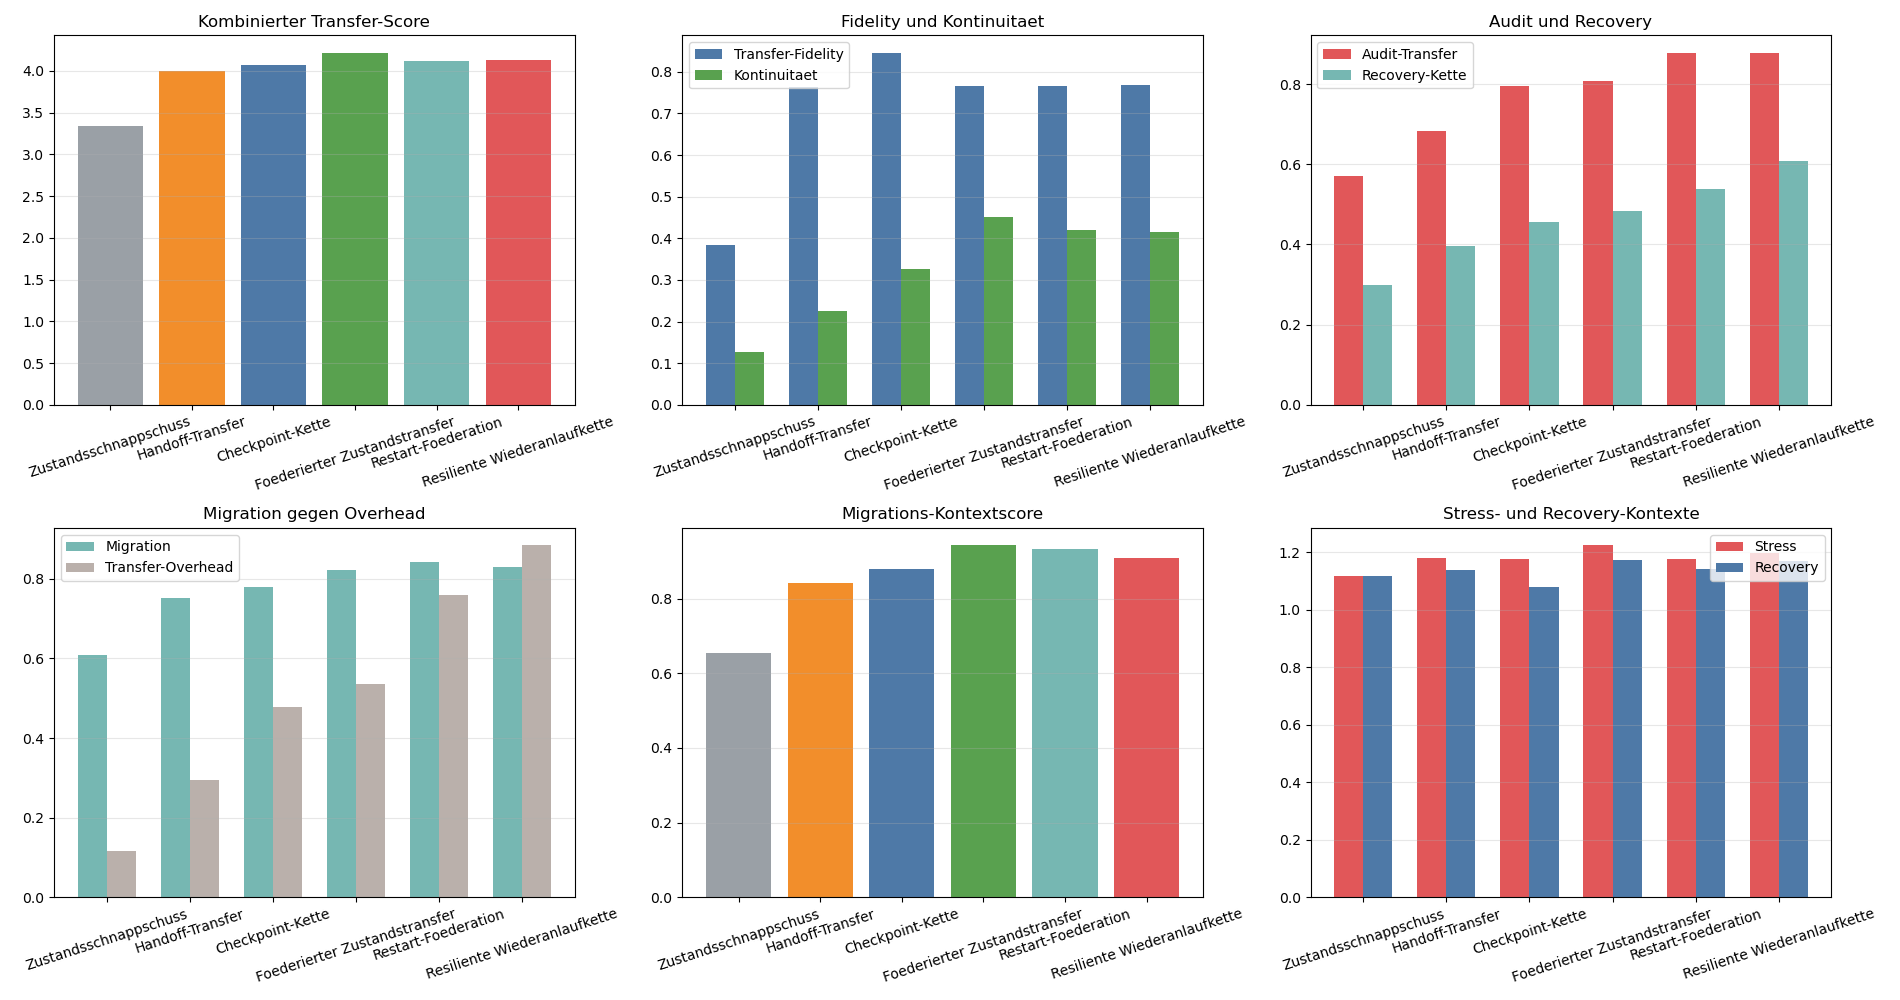
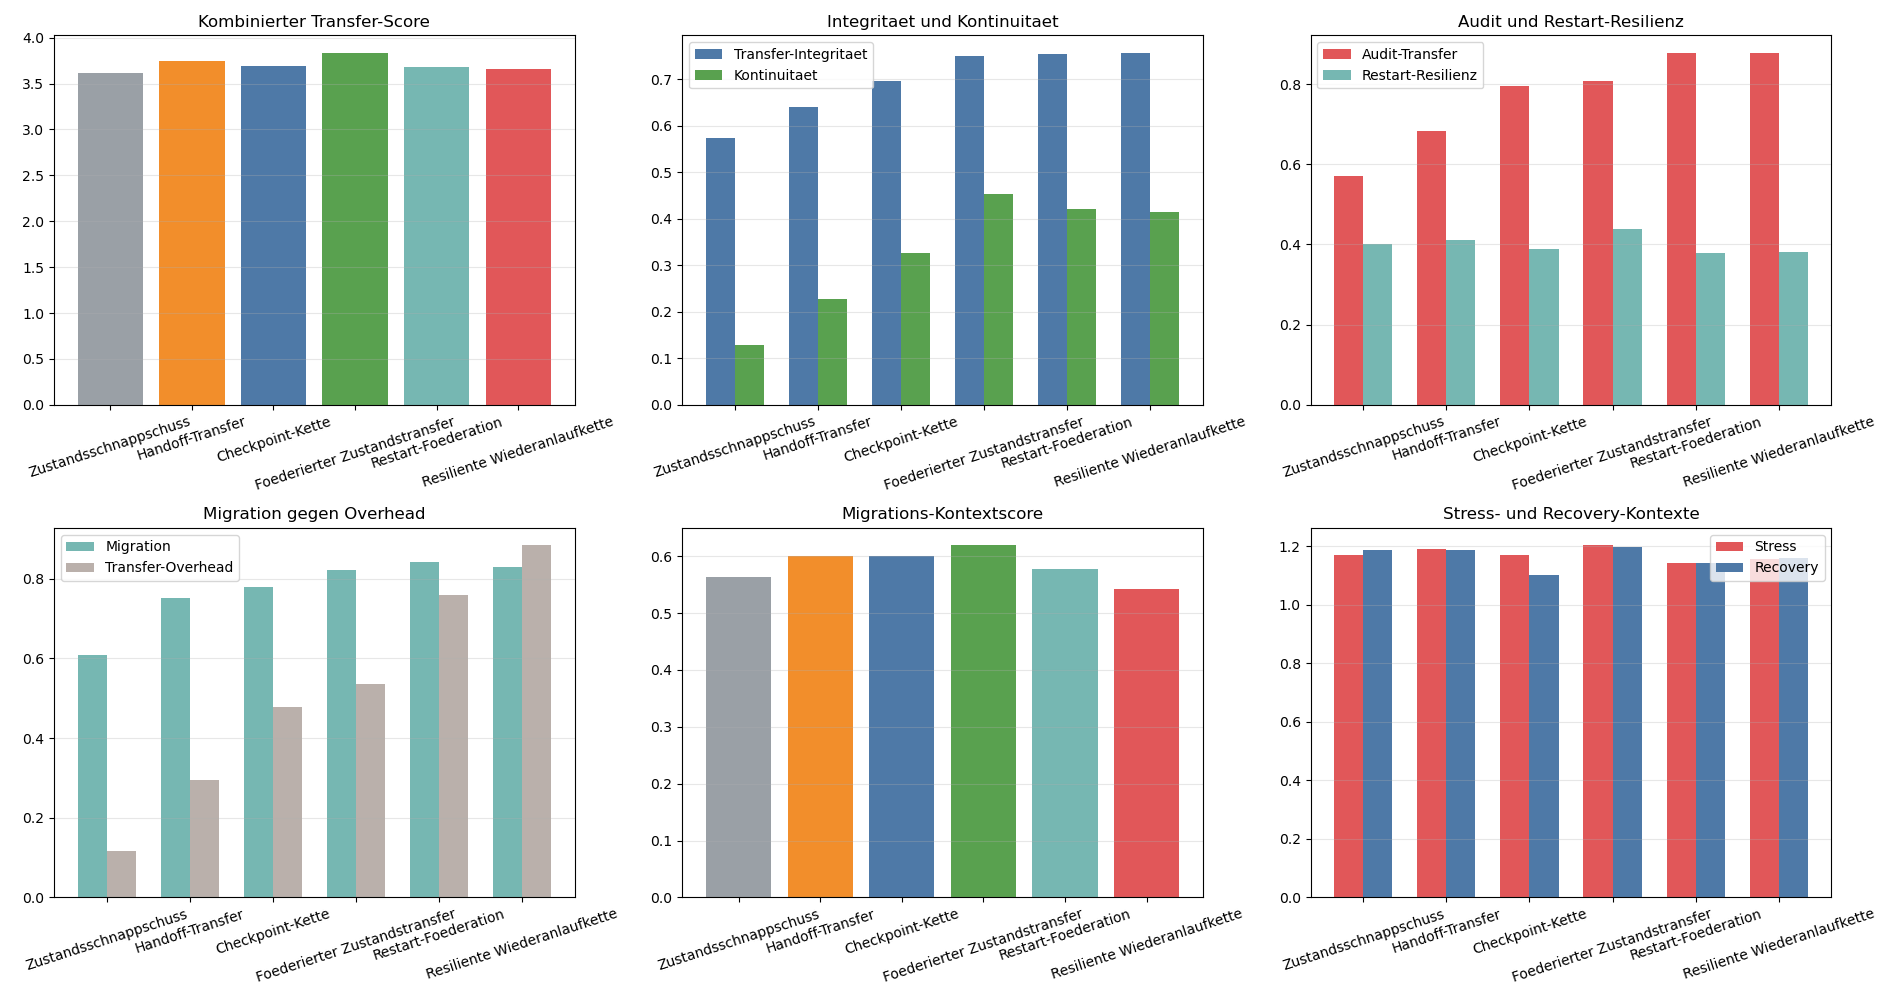
Refine state transfer resilience metrics

diff --git a/schwarm_zustandstransfer.py b/schwarm_zustandstransfer.py
@@ -420,6 +420,28 @@ def transfer_metrics(config, result, params, profile, kontext):
             ]
         )
     )
+    transfer_integrity = clamp01(
+        mittelwert(
+            [
+                transfer_fidelity,
+                continuity_memory,
+                audit_transfer,
+                1.0 - workflow.get('misinformation_corruption_mean', 0.0),
+                traceability,
+            ]
+        )
+    )
+    restart_resilience = clamp01(
+        mittelwert(
+            [
+                migration_stability,
+                recovery_chain,
+                continuity_memory,
+                workflow.get('sync_strength_mean', 0.0),
+                1.0 - transfer_overhead,
+            ]
+        )
+    )
 
     return {
         'completion_rate': workflow.get('completion_rate', 0.0),
@@ -441,6 +463,8 @@ def transfer_metrics(config, result, params, profile, kontext):
         'audit_transfer': audit_transfer,
         'migration_stability': migration_stability,
         'recovery_chain': recovery_chain,
+        'transfer_integrity': transfer_integrity,
+        'restart_resilience': restart_resilience,
         'transfer_overhead': transfer_overhead,
         'route_exposure': exposure,
     }
@@ -493,32 +517,31 @@ def context_score(kontext_name, result, agent_count):
 
     if kontext_name == 'handoff':
         return (
-            metrics['transfer_fidelity']
-            + 0.18 * metrics['continuity_memory']
+            metrics['transfer_integrity']
+            + 0.18 * metrics['restart_resilience']
             + 0.12 * metrics['audit_transfer']
             - 0.10 * metrics['transfer_overhead']
         )
     if kontext_name == 'migration':
         return (
-            metrics['migration_stability']
-            + 0.18 * metrics['continuity_memory']
-            + 0.12 * metrics['transfer_fidelity']
+            metrics['restart_resilience']
+            + 0.18 * metrics['migration_stability']
+            + 0.12 * metrics['transfer_integrity']
             - 0.10 * metrics['transfer_overhead']
         )
     if kontext_name == 'stress':
         return (
             base
-            + 0.18 * metrics['audit_transfer']
-            + 0.12 * metrics['transfer_fidelity']
-            + 0.10 * metrics['recovery_chain']
-            - 0.12 * metrics['corruption_mean']
+            + 0.18 * metrics['transfer_integrity']
+            + 0.12 * metrics['restart_resilience']
+            + 0.10 * metrics['audit_transfer']
             - 0.10 * metrics['route_exposure']
             - 0.08 * metrics['transfer_overhead']
         )
     return (
         base
-        + 0.20 * metrics['recovery_chain']
-        + 0.12 * metrics['continuity_memory']
+        + 0.20 * metrics['restart_resilience']
+        + 0.12 * metrics['transfer_integrity']
         + 0.08 * metrics['audit_transfer']
         - 0.12 * failed_share
         - 0.08 * metrics['transfer_overhead']
@@ -533,6 +556,8 @@ def summarize_runs(runs, profile, context_list, agent_count):
         'audit_transfer': {},
         'migration_stability': {},
         'recovery_chain': {},
+        'transfer_integrity': {},
+        'restart_resilience': {},
         'transfer_overhead': {},
         'route_exposure': {},
     }
@@ -587,9 +612,9 @@ def main():
         summaries.append(summary)
         print(
             f"{summary['label']:<30} Score={summary['combined_score']:+.3f} | "
-            f"Fidelity={summary['transfer_fidelity']['handoff']:.2f} | "
-            f"Migration={summary['migration_stability']['migration']:.2f} | "
-            f"Recovery={summary['recovery_chain']['recovery']:.2f}"
+            f"Integritaet={summary['transfer_integrity']['stress']:.2f} | "
+            f"Restart-Resilienz={summary['restart_resilience']['recovery']:.2f} | "
+            f"Migration={summary['migration_stability']['migration']:.2f}"
         )
 
     best = max(summaries, key=lambda item: item['combined_score'])
@@ -601,9 +626,9 @@ def main():
         f"Delta zu Zustandsschnappschuss {best['combined_score'] - baseline['combined_score']:+.3f}"
     )
     print(
-        f"Fidelity {best['transfer_fidelity']['handoff']:.2f}, "
+        f"Integritaet {best['transfer_integrity']['stress']:.2f}, "
         f"Audit {best['audit_transfer']['stress']:.2f}, "
-        f"Recovery {best['recovery_chain']['recovery']:.2f}"
+        f"Restart-Resilienz {best['restart_resilience']['recovery']:.2f}"
     )
 
     labels = [item['label'] for item in summaries]
@@ -621,9 +646,9 @@ def main():
 
     axes[0, 1].bar(
         x - width / 2,
-        [item['transfer_fidelity']['handoff'] for item in summaries],
+        [item['transfer_integrity']['stress'] for item in summaries],
         width,
-        label='Transfer-Fidelity',
+        label='Transfer-Integritaet',
         color='#4e79a7',
     )
     axes[0, 1].bar(
@@ -633,7 +658,7 @@ def main():
         label='Kontinuitaet',
         color='#59a14f',
     )
-    axes[0, 1].set_title('Fidelity und Kontinuitaet')
+    axes[0, 1].set_title('Integritaet und Kontinuitaet')
     axes[0, 1].set_xticks(x)
     axes[0, 1].set_xticklabels(labels, rotation=18)
     axes[0, 1].legend()
@@ -648,12 +673,12 @@ def main():
     )
     axes[0, 2].bar(
         x + width / 2,
-        [item['recovery_chain']['recovery'] for item in summaries],
+        [item['restart_resilience']['recovery'] for item in summaries],
         width,
-        label='Recovery-Kette',
+        label='Restart-Resilienz',
         color='#76b7b2',
     )
-    axes[0, 2].set_title('Audit und Recovery')
+    axes[0, 2].set_title('Audit und Restart-Resilienz')
     axes[0, 2].set_xticks(x)
     axes[0, 2].set_xticklabels(labels, rotation=18)
     axes[0, 2].legend()
